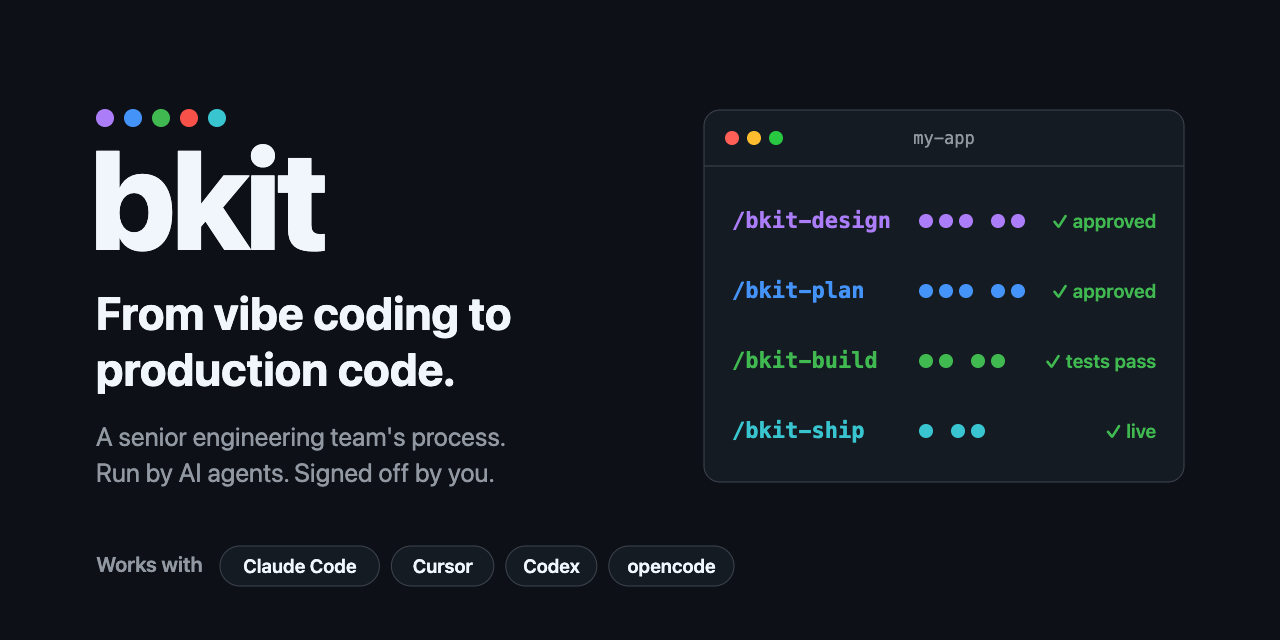
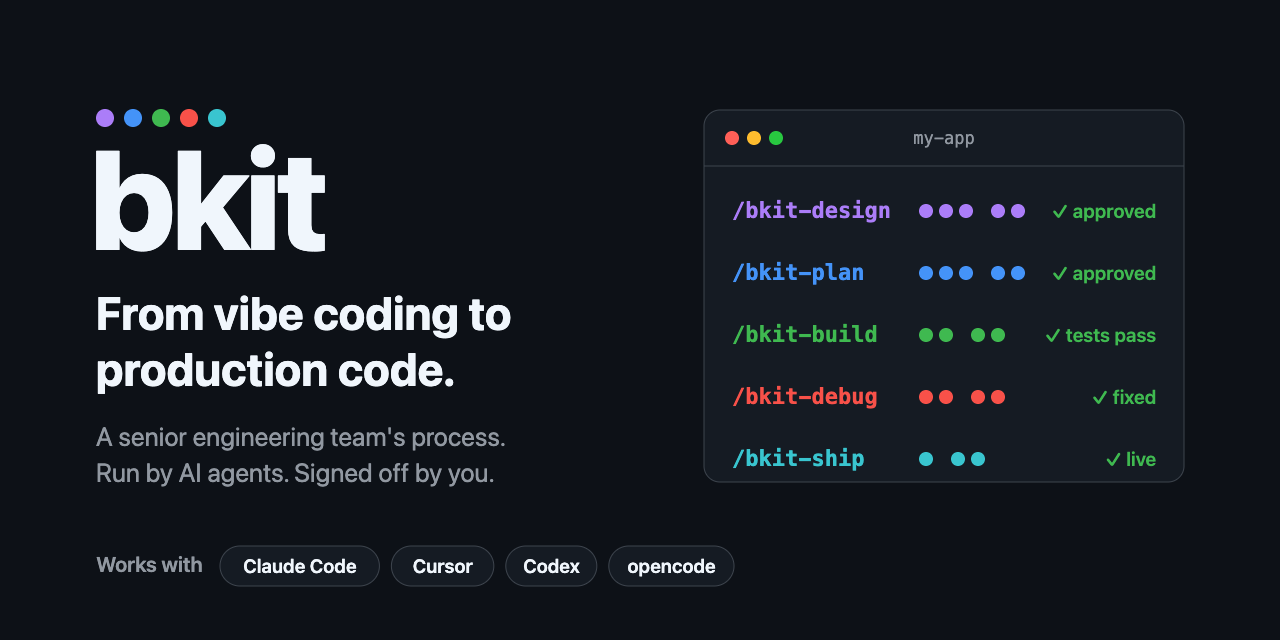
Update README and comparison documentation to enhance clarity on bkit features and debugging process. Revise feature descriptions for better understanding, including detailed context fetching in the debugging phase. Update SVG assets to reflect these changes visually.

diff --git a/.bkit/comparison.md b/.bkit/comparison.md
@@ -197,6 +197,8 @@ Output: PR to `dev`. Heaviest phase — most steps verify rather than produce. C
 
 Output: remediated commit on feature branch. Two modes — normal (diagnose → remediate localisable failure) and soak (one accumulating-context instrument-or-fix loop for non-localisable / runtime-only failures). Normal escalates to soak when diagnose can't localise, or normal loop exhausts three strategies; observation logging (`[DEBUG-OBSERVE]`) inside soak, stripped before fix ships.
 
+**Context fetch.** Per failed attempt, `/bkit-debug` runs each `context-fetch` bash block below `<!-- bkit:end -->` in `.agents/context.md` — failing CI logs, the diff since the last green run, end-to-end reports, runtime errors (Sentry, Vercel, Supabase, Stripe and more) and web search (Tavily) — writing one artifact per context and narrating `CHECKED` / `SELF-SKIPPED` / `NOT CONFIGURED` before fetching. Fail-soft and block-driven: bkit hardcodes no CI host, workflow filename or test framework, and a context with no block is never read as a clean result.
+
 **Normal mode**
 
 <!-- prettier-ignore -->
@@ -287,7 +289,7 @@ Benchmark: Antonio Gulli's _Agentic Design Patterns: A Hands-On Guide to Buildin
 | Exception Handling & Recovery | Already does | Universal failure path, bounded retries (3), 3600s timeouts, runaway-turn caps, human handover. |
 | Human-in-the-Loop | Already does | Mandatory hard stops after design / plan / ship; "recommend, do not decide." |
 | Resource-Aware Optimization | Already does | Effort-to-model tiering with explicit per-agent pins. |
-| Context Engineering | Already does | Phase doc-matrix, lazy-load, output caps, stubbed-output pattern. |
+| Context Engineering | Already does | Phase doc-matrix, lazy-load, output caps, stubbed-output pattern; consumer `context-fetch` blocks add CI, diff, e2e, runtime and web signal in debug. |
 | Memory Management | Partial | Filesystem and grep episodic memory (`status.jsonl`, knowledge / decisions). No vector retrieval, by scale choice. |
 | Learning & Adaptation | Partial | `friction.jsonl` drives human-reviewed prompt edits; entries carry confidence, scope, and last-confirmed fields. No auto prompt-tuning — deliberate, to keep humans in the loop. |
 | Goal Setting & Monitoring | Partial | Issue = goal, phase labels = state, verdicts = criteria. No measurable per-task Definition of Done yet. |
@@ -305,6 +307,7 @@ Benchmark: Antonio Gulli's _Agentic Design Patterns: A Hands-On Guide to Buildin
 - **Cross-model diversity where breadth beats depth.** Design brainstorm, design review, plan scope-check groups pair Opus + Sonnet (Grok + Composer on Cursor) → two reasoners review same work. Depth-sensitive lenses (plan review, build challenge) stay on top tier.
 - **Resume-from-state as single source of truth.** `status.jsonl` makes every run inspectable and restartable; book treats this only obliquely under memory.
 - **Human-in-the-loop as non-negotiable.** Hard stops after design / plan / ship; book treats HITL as one option.
+- **Fail-soft external context in debug.** Provider-agnostic `context-fetch` blocks (CI logs, diff, e2e, runtime, web) feed `/bkit-debug`; each self-skips to a narrated `CHECKED` / `SELF-SKIPPED` / `NOT CONFIGURED` state, so a context with no block is never read as a clean result.
 - **Explicit per-agent model pins.** Immune to session-default drift.
 - **Provider- and host-portable execution.** Per-agent pins → `bkit install --opencode=<provider>` adds opencode host alongside Claude/Cursor — harness unchanged; inference backend moves. Same five-phase gated parallel pipeline on four providers (OpenRouter, Ollama, opencode Zen + Go gateways). Curated per-agent pins; models mirror Claude tier by default, CoT reasoners swapped for convergent-reasoning agents (debug/risk). See `.bkit/providers.md` § Hosts + Providers.
 - **Cross-host/provider continuity.** State in `status.jsonl`, plan/design docs under `docs/plans/`, tracker issue — not vendor session. Every host renders from same `.bkit/` source → phase or resumed run moves across IDE/provider mid-feature with identical gates, hooks, per-agent pins: exhaust Claude weekly limit or free-tier quota → continue on another host, no re-setup. Single-vendor frameworks tie run to starting session.

diff --git a/.bkit/core/.bkit/comparison.md b/.bkit/core/.bkit/comparison.md
@@ -197,6 +197,8 @@ Output: PR to `dev`. Heaviest phase — most steps verify rather than produce. C
 
 Output: remediated commit on feature branch. Two modes — normal (diagnose → remediate localisable failure) and soak (one accumulating-context instrument-or-fix loop for non-localisable / runtime-only failures). Normal escalates to soak when diagnose can't localise, or normal loop exhausts three strategies; observation logging (`[DEBUG-OBSERVE]`) inside soak, stripped before fix ships.
 
+**Context fetch.** Per failed attempt, `/bkit-debug` runs each `context-fetch` bash block below `<!-- bkit:end -->` in `.agents/context.md` — failing CI logs, the diff since the last green run, end-to-end reports, runtime errors (Sentry, Vercel, Supabase, Stripe and more) and web search (Tavily) — writing one artifact per context and narrating `CHECKED` / `SELF-SKIPPED` / `NOT CONFIGURED` before fetching. Fail-soft and block-driven: bkit hardcodes no CI host, workflow filename or test framework, and a context with no block is never read as a clean result.
+
 **Normal mode**
 
 <!-- prettier-ignore -->
@@ -287,7 +289,7 @@ Benchmark: Antonio Gulli's _Agentic Design Patterns: A Hands-On Guide to Buildin
 | Exception Handling & Recovery | Already does | Universal failure path, bounded retries (3), 3600s timeouts, runaway-turn caps, human handover. |
 | Human-in-the-Loop | Already does | Mandatory hard stops after design / plan / ship; "recommend, do not decide." |
 | Resource-Aware Optimization | Already does | Effort-to-model tiering with explicit per-agent pins. |
-| Context Engineering | Already does | Phase doc-matrix, lazy-load, output caps, stubbed-output pattern. |
+| Context Engineering | Already does | Phase doc-matrix, lazy-load, output caps, stubbed-output pattern; consumer `context-fetch` blocks add CI, diff, e2e, runtime and web signal in debug. |
 | Memory Management | Partial | Filesystem and grep episodic memory (`status.jsonl`, knowledge / decisions). No vector retrieval, by scale choice. |
 | Learning & Adaptation | Partial | `friction.jsonl` drives human-reviewed prompt edits; entries carry confidence, scope, and last-confirmed fields. No auto prompt-tuning — deliberate, to keep humans in the loop. |
 | Goal Setting & Monitoring | Partial | Issue = goal, phase labels = state, verdicts = criteria. No measurable per-task Definition of Done yet. |
@@ -305,6 +307,7 @@ Benchmark: Antonio Gulli's _Agentic Design Patterns: A Hands-On Guide to Buildin
 - **Cross-model diversity where breadth beats depth.** Design brainstorm, design review, plan scope-check groups pair Opus + Sonnet (Grok + Composer on Cursor) → two reasoners review same work. Depth-sensitive lenses (plan review, build challenge) stay on top tier.
 - **Resume-from-state as single source of truth.** `status.jsonl` makes every run inspectable and restartable; book treats this only obliquely under memory.
 - **Human-in-the-loop as non-negotiable.** Hard stops after design / plan / ship; book treats HITL as one option.
+- **Fail-soft external context in debug.** Provider-agnostic `context-fetch` blocks (CI logs, diff, e2e, runtime, web) feed `/bkit-debug`; each self-skips to a narrated `CHECKED` / `SELF-SKIPPED` / `NOT CONFIGURED` state, so a context with no block is never read as a clean result.
 - **Explicit per-agent model pins.** Immune to session-default drift.
 - **Provider- and host-portable execution.** Per-agent pins → `bkit install --opencode=<provider>` adds opencode host alongside Claude/Cursor — harness unchanged; inference backend moves. Same five-phase gated parallel pipeline on four providers (OpenRouter, Ollama, opencode Zen + Go gateways). Curated per-agent pins; models mirror Claude tier by default, CoT reasoners swapped for convergent-reasoning agents (debug/risk). See `.bkit/providers.md` § Hosts + Providers.
 - **Cross-host/provider continuity.** State in `status.jsonl`, plan/design docs under `docs/plans/`, tracker issue — not vendor session. Every host renders from same `.bkit/` source → phase or resumed run moves across IDE/provider mid-feature with identical gates, hooks, per-agent pins: exhaust Claude weekly limit or free-tier quota → continue on another host, no re-setup. Single-vendor frameworks tie run to starting session.

diff --git a/README.md b/README.md
@@ -26,7 +26,7 @@ AI coding agents are fast, but on their own they skip the parts that make softwa
 <p align="center">
   <picture>
     <source media="(prefers-color-scheme: dark)" srcset=".github/assets/bkit-features-dark.svg">
-    <img alt="What ships with bkit: ready-made workflows, independent review, self-fixing builds, 35 audits, your sign-off, guardrails, honest CI, quality checks, any AI tool, laptop to cloud, parallel features, skills on demand, docs and memory kept current, best model per job, work stats, templates to adopt." src=".github/assets/bkit-features-light.svg" width="100%">
+    <img alt="What ships with bkit, one coloured row per phase. Design: independent review, three rival designs, runs on any AI tool, your sign-off. Plan: five reviewers, scope kept tight, 35 audits, best model per job. Build: writes and verifies, hunts bugs and security holes, quality checks, parallel features. Debug: self-fixing builds, root cause first, honest CI, context fetch. Ship: nothing quietly dropped, docs and memory, skills on demand, laptop to cloud." src=".github/assets/bkit-features-light.svg" width="100%">
   </picture>
 </p>
 
@@ -40,7 +40,7 @@ One command per job. Each one runs a team of specialised agents, 48 in total, so
 | Work out how to build it | `/bkit-design` | Three agents propose different approaches, two more critique them, and you get one design to approve. |
 | Plan the work | `/bkit-plan` | A step-by-step plan, stress-tested by five reviewers before any code is written. You approve it. |
 | Build it | `/bkit-build` | Writes the code, checks it against the plan, hunts for bugs and security holes, runs the tests, and opens a pull request. |
-| Fix what broke | `/bkit-debug` | Reads the failure logs, finds the cause, fixes it, re-tests, and writes down the lesson. |
+| Fix what broke | `/bkit-debug` | Gathers external context from your platforms (CI, error trackers, hosting, databases and more), finds the cause, fixes it, re-tests, and writes down the lesson. |
 | Ship it | `/bkit-ship` | Checks nothing was missed, waits for every test to pass, updates the docs, and merges once you say so. |
 | Health check | 35 audits | Security, privacy, accessibility, performance, reliability, cost and more. Findings feed straight into `/bkit-plan`. |
 | Housekeeping | utility agents | Keep docs, decisions, known issues and the roadmap current. |
@@ -73,6 +73,7 @@ One command per job. Each one runs a team of specialised agents, 48 in total, so
 
 - **Everything is checked by an agent that didn't write it.** An AI checking its own work tends to approve it. bkit gives every design, plan and code change to separate reviewers, each with one job (one hunts bugs, another security holes). They never see each other's verdicts, and several review groups mix models on purpose, so one model's blind spot is less likely to get past all of them.
 - **Broken builds fix themselves, and stay fixed.** When tests fail you don't get a wall of red text. `/bkit-debug` finds the cause, fixes it and re-runs the tests, then records the lesson so the next debug session reads it first.
+- **Debug starts from outside evidence, not a guess.** `/bkit-debug` gathers external context from the platforms you already use — CI, error trackers, hosting, databases, web search — so it diagnoses from the real failure rather than its memory. Ready-made templates cover the common services, and each one is easy to customise, extend or leave out.
 - **A green tick means every test ran.** The CI template runs test lanes side by side and fails the build if any planned lane was skipped, so a half-finished run can't pass as tested.
 
 ### It fits how you work
